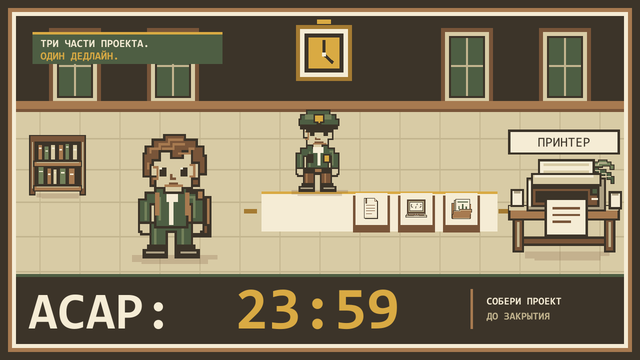
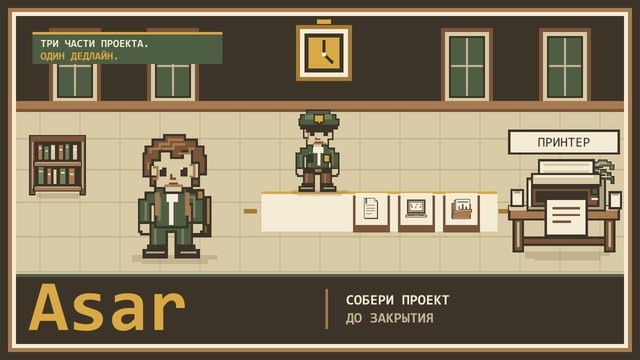
Rename game to Asar

Changed region(s): [[0.375, 0.7944, 0.875, 0.9167], [0.0312, 0.7639, 0.3125, 0.9167]]

diff --git a/index.html b/index.html
@@ -3,7 +3,7 @@
 <head>
   <meta charset="UTF-8">
   <meta name="viewport" content="width=device-width, initial-scale=1">
-  <title>Асар: 23:59</title>
+  <title>Asar</title>
   <style>
     * { box-sizing: border-box; }
     body { margin: 0; background: #F5ECD5; color: #4E5E43; font: 16px/1.5 system-ui, sans-serif; }
@@ -205,7 +205,7 @@
 </head>
 <body>
   <main>
-    <header><h1>Асар: 23:59</h1><span class="tag" id="level-tag">Раунд 1</span>
+    <header><h1>Asar</h1><span class="tag" id="level-tag">Раунд 1</span>
       <div class="wallet-tools">
         <button id="connect" type="button" aria-label="Подключить Phantom" aria-describedby="wallet-notice">Подключить Phantom</button>
         <button id="wallet-copy" type="button" hidden aria-label="Скопировать адрес кошелька"></button>
@@ -286,7 +286,7 @@
           <p class="memo-intro">Сохраните записку в Devnet и прочитайте её из сети.</p>
           <small class="memo-help">Записка публичная · тестовые SOL: <a href="https://faucet.solana.com/" target="_blank" rel="noopener noreferrer">Solana Faucet</a>.</small>
           <div class="memo-label-row"><label for="memo">Текст записки</label><span id="memo-bytes" aria-live="polite">0/160 байт</span></div>
-          <input id="memo" value="Asar 23:59 | My first campus memo" maxlength="160" autocomplete="off" aria-describedby="memo-bytes">
+          <input id="memo" value="Asar | My first campus memo" maxlength="160" autocomplete="off" aria-describedby="memo-bytes">
           <div class="actions">
             <button id="prepare" disabled>Проверить запись</button>
             <button id="send" disabled>Подписать и записать</button>
@@ -315,7 +315,7 @@
     </section>
   </main>
   <dialog id="round-dialog" aria-labelledby="result-title" aria-describedby="result-copy result-stat">
-    <p class="paper-label">Асар: 23:59 · Итоги раунда</p>
+    <p class="paper-label">Asar · Итоги раунда</p>
     <div class="result-parts" role="group" aria-label="Части проекта">
       <svg data-result-part="1" role="img" viewBox="0 0 64 64" fill="none" stroke="#3C3429" stroke-width="1" stroke-linecap="square" stroke-linejoin="miter"><path d="M18 10h22v2h3v3h3v39H18z" fill="#C3B58F"/><path d="M16 8h23v3h3v3h3v38H16z" fill="#F5ECD5"/><path d="M39 8v7h6M20 24h20m-20 6h20m-20 6h20m-20 6h13" fill="none" stroke="#795539"/><path d="M19 9h3v10h-3z" fill="#A77A50"/><path d="M17 50h27" stroke="#D8CBA5"/></svg>
       <svg data-result-part="2" role="img" viewBox="0 0 64 64" fill="none" stroke="#3C3429" stroke-width="1" stroke-linecap="square" stroke-linejoin="miter"><path d="M12 12h39v29H12z" fill="#795539"/><path d="M14 14h35v25H14z" fill="#C3B58F"/><path d="M17 17h29v19H17z" fill="#F5ECD5"/><path d="M24 21h-2v2h-2v3h2v2h2m15-7h2v2h2v3h-2v2h-2M34 20v3h-2v4h-2v4" fill="none" stroke="#3C3429"/><path d="M12 41h39v2h2v3h2v4H8v-4h2v-3h2z" fill="#AEA184"/><path d="M14 43h34v3H14z" fill="#795539"/><path d="M17 44h2m2 0h2m2 0h2m2 0h2m2 0h2m2 0h2m2 0h2m2 0h2" stroke="#F5ECD5"/><path d="M27 47h10M10 49h43" stroke="#F5ECD5"/></svg>

diff --git a/onboarding.js b/onboarding.js
@@ -33,7 +33,7 @@ const steps = [
     targets: () => [document.querySelector("#moves-left")?.parentElement, document.querySelector(".inventory")],
   },
   {
-    title: "Асар — помощь другу",
+    title: "Asar — помощь другу",
     text: "Через «Помощь» можно отправить другому игроку записку и предмет в Solana. По такой ссылке помощь можно получить и самому.",
     targets: () => [document.querySelector("#gift-open")],
   },
@@ -51,7 +51,7 @@ dialog.setAttribute("aria-describedby", "onboarding-copy");
 dialog.innerHTML = `
   <div class="onboarding-focus" aria-hidden="true"></div>
   <div class="onboarding-card">
-    <p class="onboarding-eyebrow">АСАР: 23:59 · КАК ИГРАТЬ</p>
+    <p class="onboarding-eyebrow">Asar · КАК ИГРАТЬ</p>
     <div class="onboarding-art" aria-hidden="true"><svg viewBox="0 0 64 64" fill="none" stroke="#3C3429" stroke-width="1" shape-rendering="crispEdges"><path d="M9 45h46v8H9z" fill="#795539"/><path d="M16 17h20v29H16z" fill="#F5ECD5"/><path d="M20 24h12m-12 6h12m-12 6h8" stroke="#795539"/><path d="M35 11h17v29H35z" fill="#4E5E43"/><path d="M39 15h9v19h-9z" fill="#D8CBA5"/><path d="M42 22v7m-2-4h5" stroke="#3C3429"/><path d="M13 42h23v7H13z" fill="#A77A50"/></svg></div>
     <p class="onboarding-step" id="onboarding-step"></p>
     <h2 id="onboarding-title"></h2>

diff --git a/gift.js b/gift.js
@@ -51,7 +51,7 @@ export async function readGift(signature) {
     const memos = transaction.transaction.message.instructions.filter(i => i.programId.equals(memoProgram));
     const signers = transaction.transaction.message.accountKeys.filter(key => key.signer);
     // Gifts created here have exactly one author and one Memo instruction.
-    if (!match || byteLength(memo.parsed) > 160 || memos.length !== 1 || signers.length !== 1) throw new Error("Это не записка помощи Асар или её формат повреждён");
+    if (!match || byteLength(memo.parsed) > 160 || memos.length !== 1 || signers.length !== 1) throw new Error("Это не записка помощи Asar или её формат повреждён");
     const author = signers[0].pubkey.toBase58();
     return { type: match[1], note: match[2], author: `${author.slice(0, 4)}…${author.slice(-4)}` };
   }, 8000);

diff --git a/gift-ui.js b/gift-ui.js
@@ -79,7 +79,7 @@ export function initGifts(applyGift) {
   });
   $("share").hidden = !navigator.share;
   $("share").addEventListener("click", async () => {
-    try { await navigator.share({ title: "Помощь в Асар: 23:59", url: $("link").value }); }
+    try { await navigator.share({ title: "Помощь в игре Asar", url: $("link").value }); }
     catch (error) { $("status").textContent = error.name === "AbortError" ? "Отправка ссылки отменена." : "Скопируйте ссылку и отправьте вручную."; }
   });
   refresh();

diff --git a/PROJECT_NOTES.md b/PROJECT_NOTES.md
@@ -1,4 +1,10 @@
-# Асар: 23:59 — состояние проекта
+# Asar — состояние проекта
+
+## Название, 10 октября 2026
+
+- Публичное название игры: `Asar`. «Асар» — казахская традиция добровольной совместной помощи. Число `23:59` остаётся игровым дедлайном, но больше не входит в название.
+- Визуальные материалы и подписи интерфейса переименованы. Технические ключи `asar:*`, формат Memo `asar1` и адрес GitHub Pages `/asar-2359/` сохранены ради существующих сохранений, ссылок и подарков.
+- В кабинете издателя iDos Games название Title `KJ56QZ5E` изменено на `Asar`; через MCP подтверждено новое имя. Обложка с новым названием загружена отдельно. Публичная страница может показывать прежние данные до обновления кеша.
 
 ## Ограничение монет по кошельку, 9 октября 2026
 

diff --git a/README.md b/README.md
@@ -1,4 +1,6 @@
-# Асар: 23:59
+# Asar
+
+Название отсылает к казахской традиции асара — добровольной совместной помощи в деле, с которым одному человеку трудно справиться. В игре эта идея проявляется в помощи другу с проектом.
 
 Пиксельная игра о студенте, который собирает три части проекта и успевает к принтеру до окончания ходов.
 
